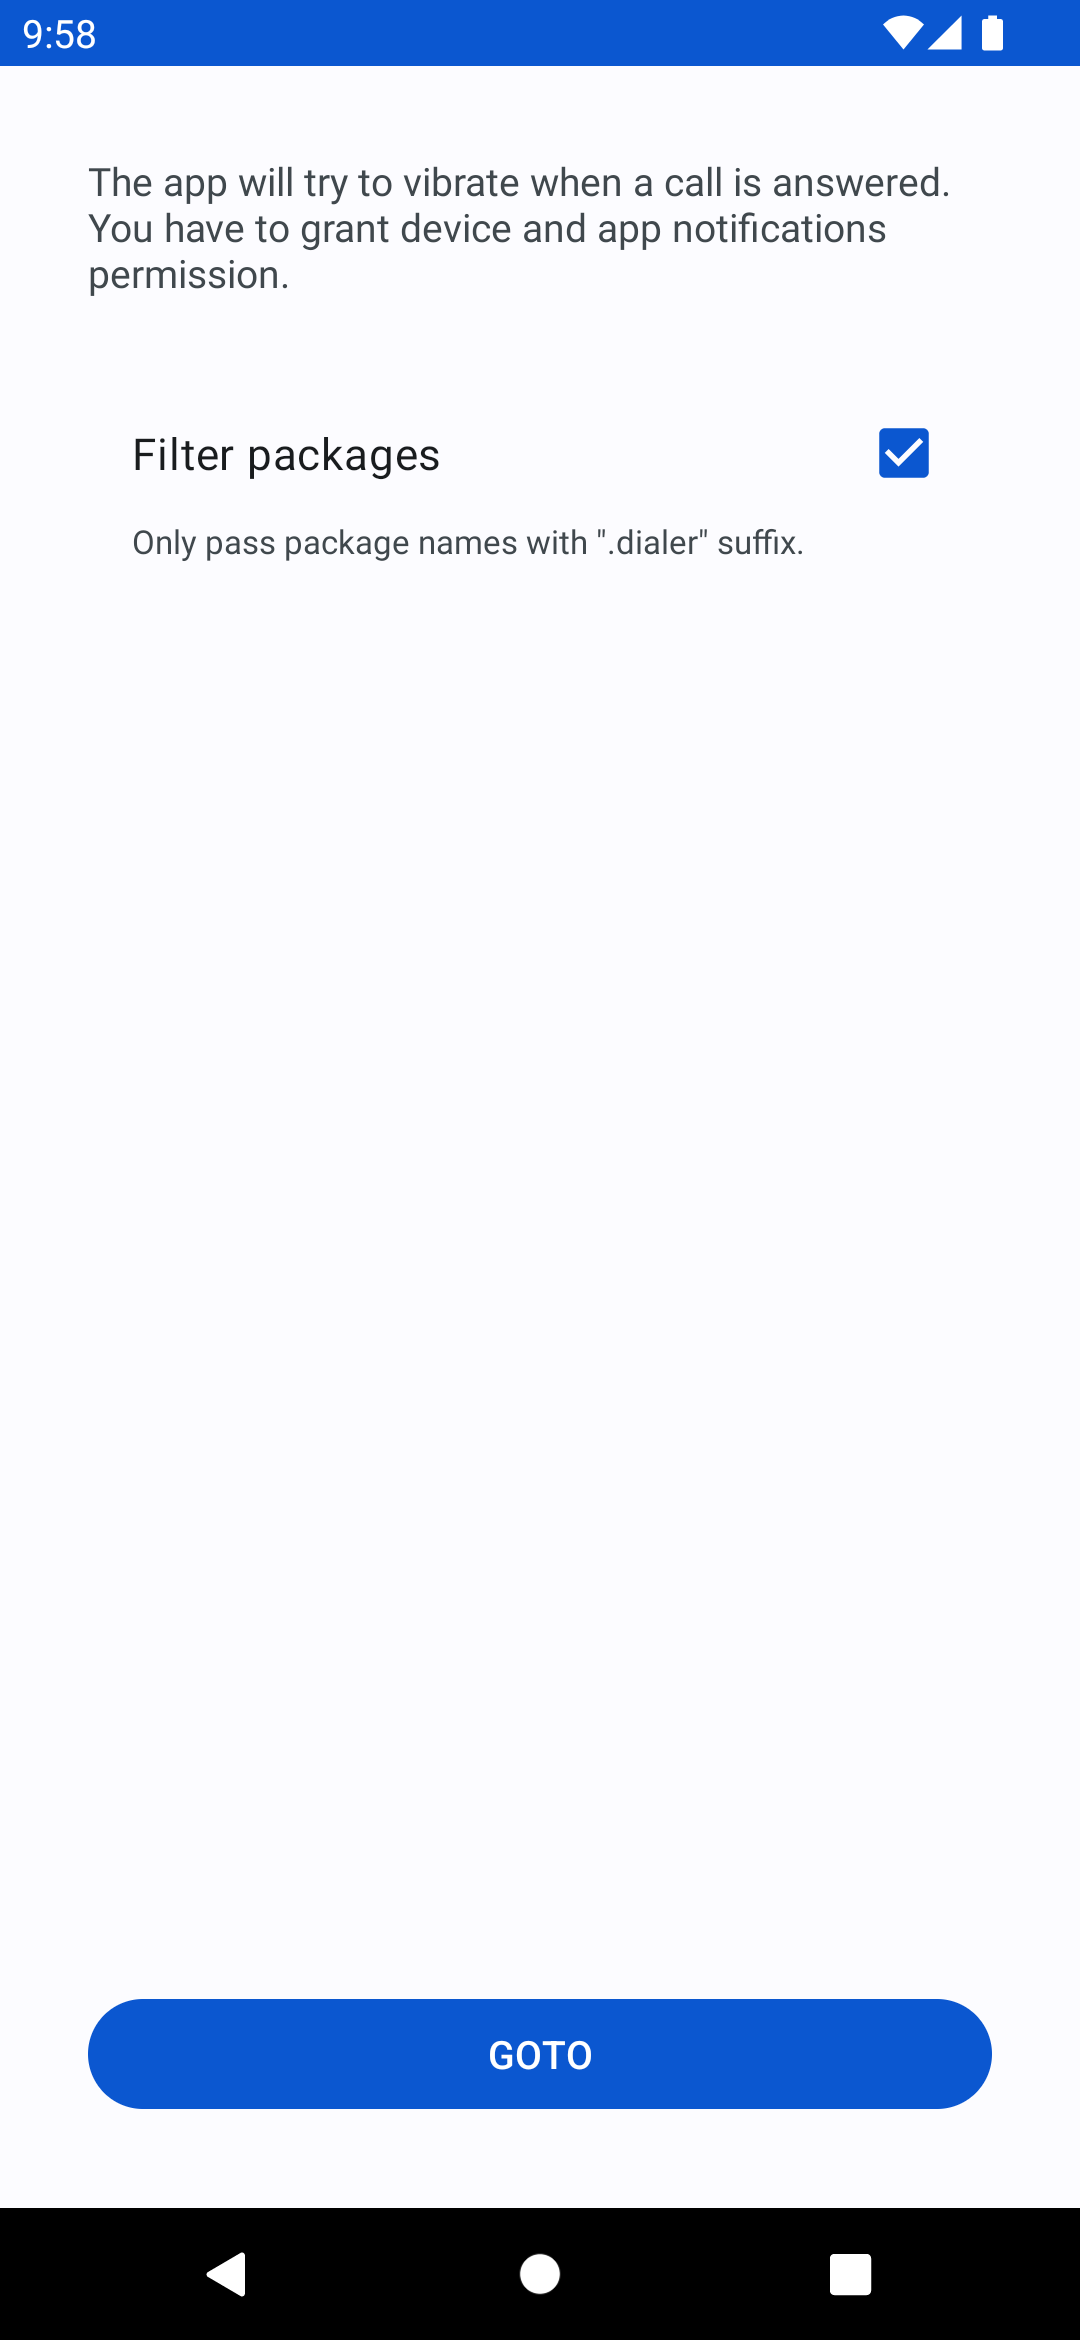
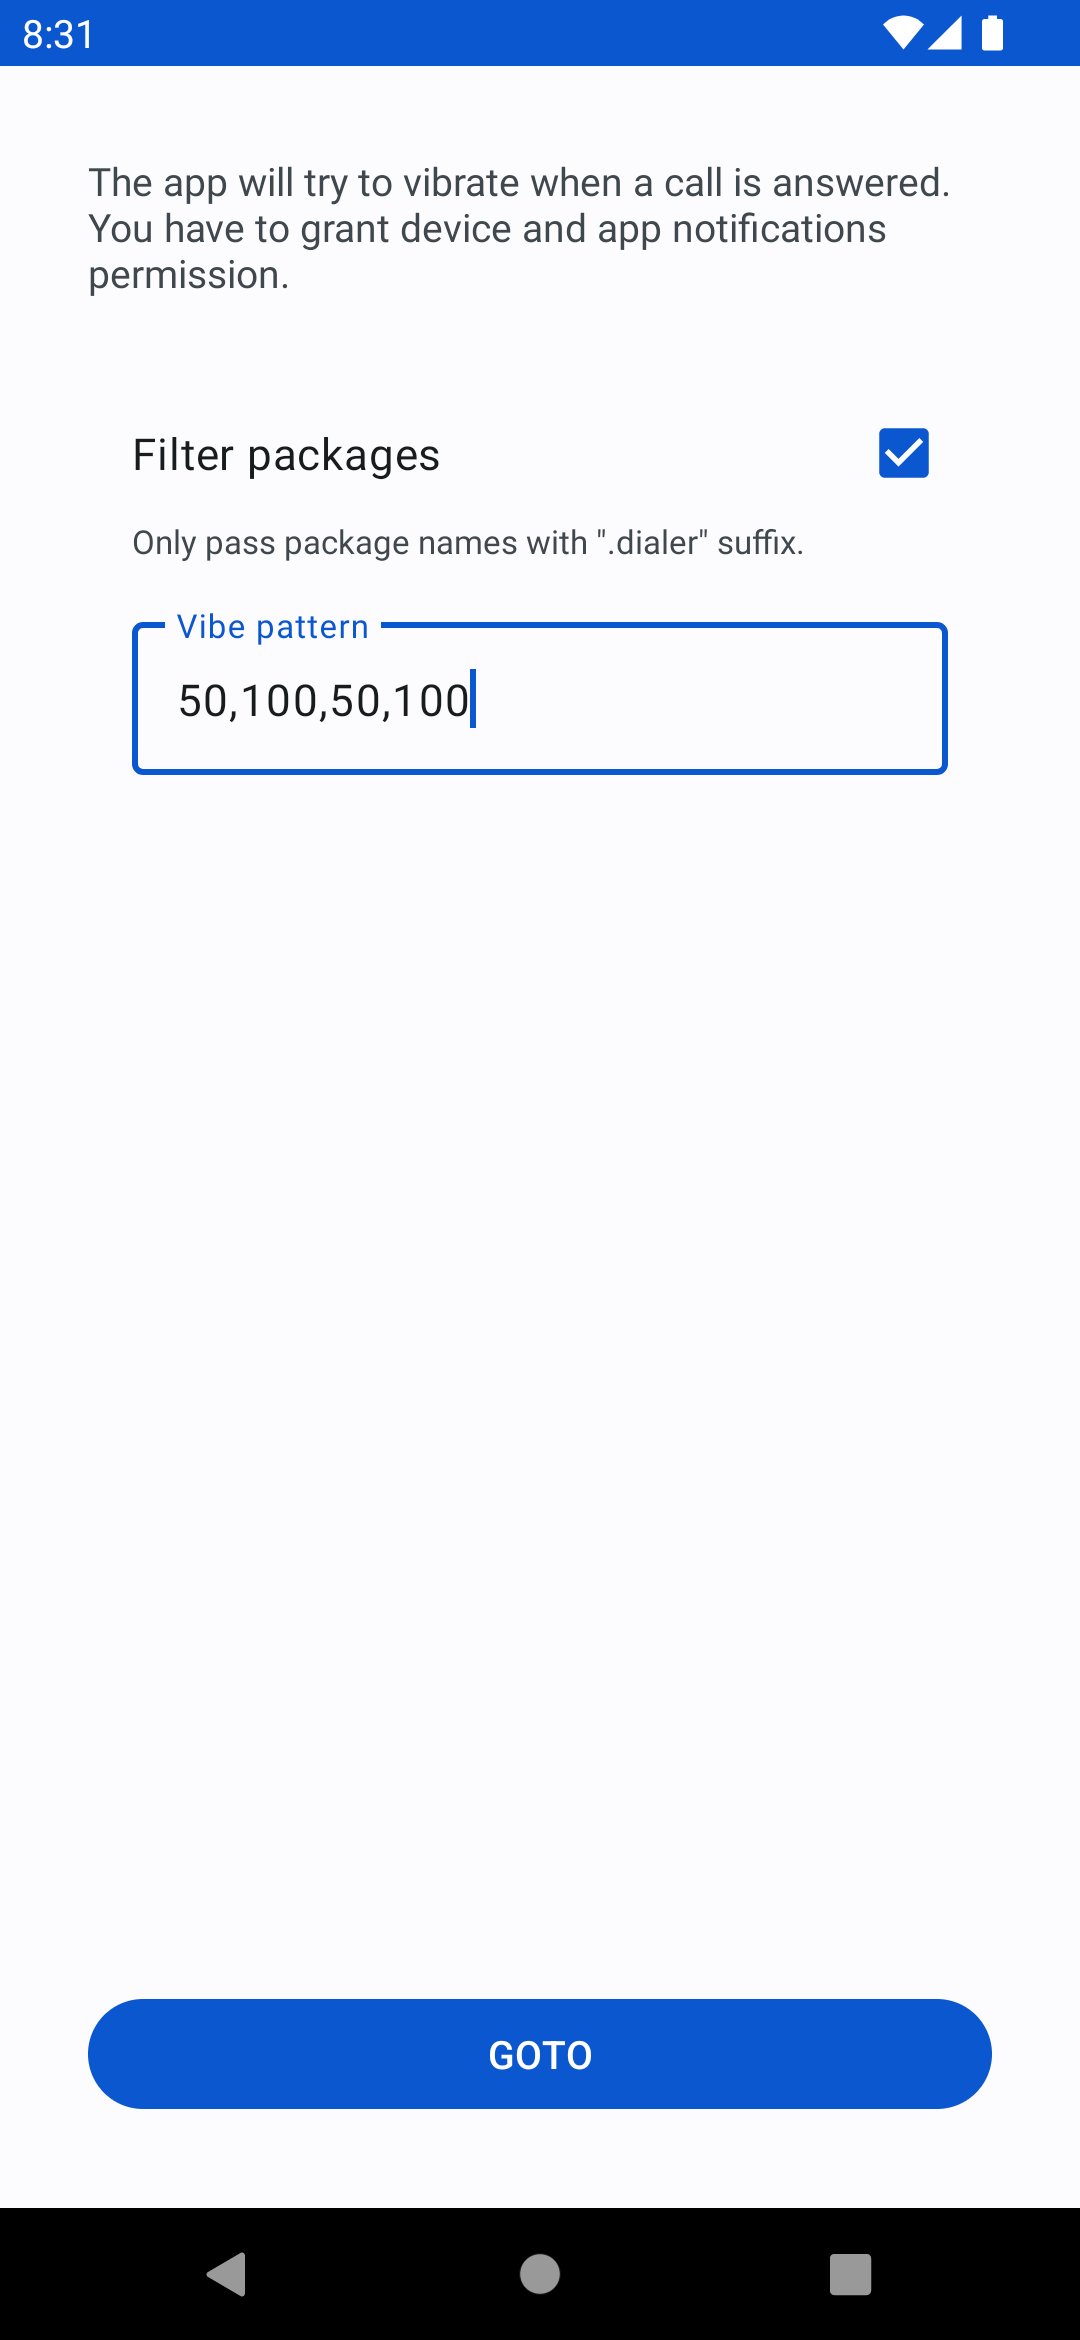
custom vibe pattern

diff --git a/app/src/main/java/me/lucky/vibe/NotificationListenerService.kt b/app/src/main/java/me/lucky/vibe/NotificationListenerService.kt
@@ -12,21 +12,19 @@ import android.service.notification.StatusBarNotification
 import android.telecom.TelecomManager
 import android.util.Log
 import androidx.annotation.RequiresApi
+import java.lang.NumberFormatException
 
 class NotificationListenerService : NotificationListenerService() {
     companion object {
         private val TAG = NotificationListenerService::class.java.simpleName
         private const val DIALER_SUFFIX = ".dialer"
         private const val MAX_DELAY = 2000
-        private val VIBE_PATTERN = longArrayOf(50, 100, 50, 100)
     }
 
     private lateinit var prefs: Preferences
     private var telecomManager: TelecomManager? = null
     private var audioManager: AudioManager? = null
     private var vibrator: Vibrator? = null
-    @RequiresApi(Build.VERSION_CODES.O)
-    private var vibrationEffect: VibrationEffect? = null
 
     override fun onCreate() {
         super.onCreate()
@@ -41,9 +39,6 @@ class NotificationListenerService : NotificationListenerService() {
             getSystemService(VibratorManager::class.java)?.defaultVibrator
         } else {
             getSystemService(Vibrator::class.java)
-        }
-        if (Build.VERSION.SDK_INT >= Build.VERSION_CODES.O) {
-            vibrationEffect = VibrationEffect.createWaveform(VIBE_PATTERN, -1)
         }
     }
 
@@ -65,11 +60,22 @@ class NotificationListenerService : NotificationListenerService() {
     private fun vibrate() {
         Log.d(TAG, "vibrate")
         if (Build.VERSION.SDK_INT >= Build.VERSION_CODES.O) {
-            vibrator?.vibrate(vibrationEffect)
+            vibrator?.vibrate(VibrationEffect.createWaveform(vibePattern(), -1))
         } else {
             @Suppress("deprecation")
-            vibrator?.vibrate(VIBE_PATTERN, -1)
+            vibrator?.vibrate(vibePattern(), -1)
         }
+    }
+
+    private fun vibePattern(): LongArray? {
+        val toLongArray = { str: String ->
+            try {
+                str.split(Preferences.VIBE_PATTERN_DELIMITER).map { it.toLong() }.toLongArray()
+            } catch (exc: NumberFormatException) { null }
+        }
+        var res = toLongArray(prefs.vibePattern)
+        if (res == null) res = toLongArray(Preferences.DEFAULT_VIBE_PATTERN)
+        return res
     }
 
     override fun onListenerConnected() {

diff --git a/app/src/main/java/me/lucky/vibe/MainActivity.kt b/app/src/main/java/me/lucky/vibe/MainActivity.kt
@@ -4,12 +4,15 @@ import android.content.Intent
 import android.os.Bundle
 import android.provider.Settings
 import androidx.appcompat.app.AppCompatActivity
+import androidx.core.widget.doAfterTextChanged
+import java.util.regex.Pattern
 
 import me.lucky.vibe.databinding.ActivityMainBinding
 
 class MainActivity : AppCompatActivity() {
     private lateinit var binding: ActivityMainBinding
     private lateinit var prefs: Preferences
+    private val vibePatternRegex by lazy { Pattern.compile("^\\d+(,\\d+)*$") }
 
     override fun onCreate(savedInstanceState: Bundle?) {
         super.onCreate(savedInstanceState)
@@ -23,6 +26,7 @@ class MainActivity : AppCompatActivity() {
         prefs = Preferences(this)
         binding.apply {
             filterPackageNames.isChecked = prefs.isFilterPackageNames
+            vibePattern.editText?.setText(prefs.vibePattern)
         }
     }
 
@@ -30,6 +34,13 @@ class MainActivity : AppCompatActivity() {
         binding.apply {
             filterPackageNames.setOnCheckedChangeListener { _, isChecked ->
                 prefs.isFilterPackageNames = isChecked
+            }
+            vibePattern.editText?.doAfterTextChanged { text ->
+                val str = text.toString()
+                if (vibePatternRegex.matcher(str).matches())
+                    prefs.vibePattern = str
+                else
+                    vibePattern.editText?.error = getString(R.string.vibe_pattern_error)
             }
             gotoButton.setOnClickListener {
                 startActivity(Intent(Settings.ACTION_NOTIFICATION_LISTENER_SETTINGS))

diff --git a/app/src/main/java/me/lucky/vibe/Preferences.kt b/app/src/main/java/me/lucky/vibe/Preferences.kt
@@ -7,6 +7,11 @@ import androidx.preference.PreferenceManager
 class Preferences(ctx: Context) {
     companion object {
         private const val FILTER_PACKAGE_NAMES = "filter_package_names"
+        private const val VIBE_PATTERN = "vibe_pattern"
+
+        const val VIBE_PATTERN_DELIMITER = ","
+        val DEFAULT_VIBE_PATTERN = arrayOf("50", "100", "50", "100")
+            .joinToString(VIBE_PATTERN_DELIMITER)
     }
 
     private val prefs = PreferenceManager.getDefaultSharedPreferences(ctx)
@@ -14,4 +19,8 @@ class Preferences(ctx: Context) {
     var isFilterPackageNames: Boolean
         get() = prefs.getBoolean(FILTER_PACKAGE_NAMES, true)
         set(value) = prefs.edit { putBoolean(FILTER_PACKAGE_NAMES, value) }
+
+    var vibePattern: String
+        get() = prefs.getString(VIBE_PATTERN, DEFAULT_VIBE_PATTERN) ?: DEFAULT_VIBE_PATTERN
+        set(value) = prefs.edit { putString(VIBE_PATTERN, value) }
 }
